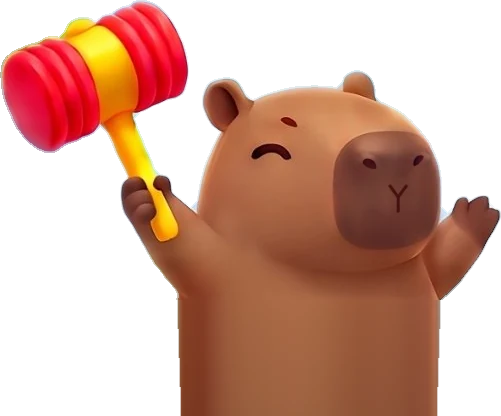
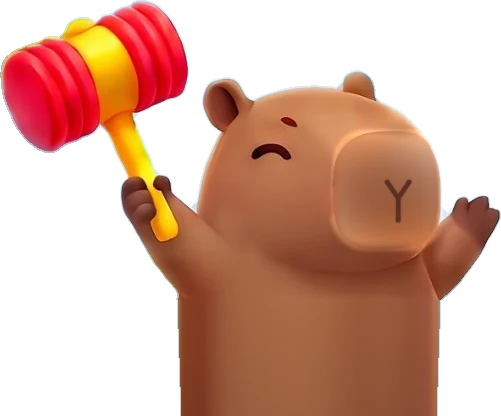
Home capybara: no nostrils, lighter muzzle, bigger bolder Y mouth
Claude-Session: https://claude.ai/code/session_0151HyQbunyEVHQk27fvCMAu

Changed region(s): [[0.6587, 0.3125, 0.8982, 0.625]]

diff --git a/index.html b/index.html
@@ -19,7 +19,7 @@ body{margin:0;font:14px system-ui,sans-serif}
 </style>
 <script>
 (function () {
-  var BUILD = '20261109200034';
+  var BUILD = '20261109200325';
   function check() {
     fetch('version.txt?t=' + Date.now(), { cache: 'no-store' }).then(function (r) { return r.ok ? r.text() : BUILD; }).then(function (v) {
       v = (v || '').trim();
@@ -381,7 +381,7 @@ p.res-tap{display:flex;align-items:center;justify-content:center;gap:4px;font-fa
 @media (prefers-reduced-motion: reduce){*{animation-duration:1ms!important;animation-iteration-count:1!important}}
 
 /* ===== 3D redesign (backup of the previous look: backup/game.template.pre-redesign.html, git branch backup-pre-redesign) ===== */
-#home{background:#8FD3FF url(img/bg.webp?v=20261109200034) center bottom/cover no-repeat;background-attachment:local}
+#home{background:#8FD3FF url(img/bg.webp?v=20261109200325) center bottom/cover no-repeat;background-attachment:local}
 /* glancing over the shoulder: the art looks right, flipped half the time to look left */
 .char.peek.pl img.cimg{scale:-1 1}
 /* never squeeze the art to its box (some hosts add img{max-width:100%}) */
@@ -390,7 +390,7 @@ p.res-tap{display:flex;align-items:center;justify-content:center;gap:4px;font-fa
 /* duo: both seen from behind, and the capybara's back art reads smaller than the red panda's */
 #game.duo .char.capy img.cimg{scale:1.04}
 #game.duo .char.capy.peek.pl img.cimg{scale:-1.04 1.04}
-.fghill{position:absolute;left:0;top:0;width:100%;height:100%;z-index:1;pointer-events:none;background:url(img/hillfg.webp?v=20261109200034) center bottom/100% auto no-repeat}
+.fghill{position:absolute;left:0;top:0;width:100%;height:100%;z-index:1;pointer-events:none;background:url(img/hillfg.webp?v=20261109200325) center bottom/100% auto no-repeat}
 #home>.home-top,#home>.title,#home>.field{position:relative;z-index:2}
 #home>.fghill{position:absolute;flex:none;z-index:1}
 /* the bottom of the picture melts into one grass colour, the same colour the phone paints below the page */
@@ -426,7 +426,7 @@ p.res-tap{display:flex;align-items:center;justify-content:center;gap:4px;font-fa
 .copy{color:#fff;opacity:.9;text-shadow:0 1px 3px rgba(0,0,0,.35)}
 @media (max-height:700px){.mmain{padding-block:6px}.micon{width:40px;height:40px}.mtext b{font-size:20px}.field{gap:9px;padding-top:8px}}
 /* game arena: the painted meadow; the opponent stands on the grassy ledge */
-#arena{background:#8FD3FF url(img/bg.webp?v=20261109200034) center 66%/cover no-repeat}
+#arena{background:#8FD3FF url(img/bg.webp?v=20261109200325) center 66%/cover no-repeat}
 #arena .sun,#arena .cloud,#arena .ground,#arena .ground2,#arena .groundT,#arena .groundT2,#arena .hill{display:none}
 .char img.cimg{height:100%;width:auto;display:block;animation:breathe 2.6s ease-in-out infinite;transform-origin:50% 100%;filter:drop-shadow(0 6px 5px rgba(30,50,20,.3));-webkit-user-drag:none;user-select:none}
 #char1 img.cimg{animation-delay:-1.3s}
@@ -448,7 +448,7 @@ p.res-tap{display:flex;align-items:center;justify-content:center;gap:4px;font-fa
 @keyframes drip{0%{transform:translateY(0);opacity:1}100%{transform:translateY(60px);opacity:0}}
 .tut-art.lobby img{height:100%;width:auto}
 /* letter tiles thrown on the first hit look like the toy block */
-.fly{background:url(img/block.webp?v=20261109200034) center/contain no-repeat;border:0;width:38px;height:38px;margin:-19px 0 0 -19px;box-shadow:none;color:#6B4A1E;padding-top:3px;box-sizing:border-box}
+.fly{background:url(img/block.webp?v=20261109200325) center/contain no-repeat;border:0;width:38px;height:38px;margin:-19px 0 0 -19px;box-shadow:none;color:#6B4A1E;padding-top:3px;box-sizing:border-box}
 
 /* ===== game + popups dressed like the home screen (keyboard keeps its look) ===== */
 /* name cards, clock and top buttons: the home menu's glossy pills */
@@ -606,7 +606,7 @@ html.standalone #game .panel{padding-bottom:10px}
   <section id="home" class="screen">
     <div class="fghill" id="homeHill" aria-hidden="true"></div>
     <div class="homefade" aria-hidden="true"></div>
-    <div class="deco" aria-hidden="true"><img class="dtile" src="img/tileA.webp?v=20261109200034" alt="" style="left:3%;top:31%;--r:-8deg"><img class="dtile" src="img/tileQ.webp?v=20261109200034" alt="" style="right:3%;top:29%;--r:9deg;animation-delay:-1.2s"></div>
+    <div class="deco" aria-hidden="true"><img class="dtile" src="img/tileA.webp?v=20261109200325" alt="" style="left:3%;top:31%;--r:-8deg"><img class="dtile" src="img/tileQ.webp?v=20261109200325" alt="" style="right:3%;top:29%;--r:9deg;animation-delay:-1.2s"></div>
     <div class="home-top gut">
       <div class="lt-grp"><button class="pill" id="langBtn" type="button" hidden></button><button class="pill nick-pill" id="nickBtn" type="button"></button></div>
       <div class="rt">
@@ -617,7 +617,7 @@ html.standalone #game .panel{padding-bottom:10px}
       </div>
     </div>
     <h1 class="title gut" aria-label="First n Last">
-      <img class="logo-img" src="img/logo.webp?v=20261109200034" alt="" draggable="false">
+      <img class="logo-img" src="img/logo.webp?v=20261109200325" alt="" draggable="false">
       <span class="ribbon" data-t="tagline"></span>
     </h1>
     <div class="stage" id="homeCast"><div class="ev-banner" id="evBanner" hidden></div></div>
@@ -642,7 +642,7 @@ html.standalone #game .panel{padding-bottom:10px}
       <div class="ground"></div><div class="ground2"></div><div class="groundT"></div><div class="groundT2"></div><div class="hill"></div>
       <div class="card" id="card1"><div class="nm" id="name1"></div><div class="hearts" id="hearts1"></div></div>
       <div class="hud" id="hud"><div class="clkwrap" id="clkW"><div class="clock" id="clock">2:00</div><div class="hint-cd" id="hintCd"></div></div></div>
-      <img class="plat" src="img/plat.webp?v=20261109200034" alt="" draggable="false"><div class="char" id="char1"></div>
+      <img class="plat" src="img/plat.webp?v=20261109200325" alt="" draggable="false"><div class="char" id="char1"></div>
       <div class="mid">
         <div class="side"><div class="tile tS">?</div><span data-t="startLbl"></span></div>
         <div id="center"></div>
@@ -884,7 +884,7 @@ const CHEV = '<svg viewBox="0 0 16 16" fill="none" stroke="currentColor" stroke-
 /* ---------- 3D character art (img/*.webp) ----------
    Each animal has 8 poses, seen from the front (f) and from behind (b):
    1 relaxed, 2 joyful jump, 3 puzzled scratch, 4 flinch, 5 one bandage, 6 two bandages, 7 knocked out, 8 wind-up throw */
-const IMGV = '20261109200034';
+const IMGV = '20261109200325';
 const img = n => `img/${n}.webp?v=${IMGV}`;
 const ANIMALS = ['capy', 'panda'];
 function preloadArt() {
